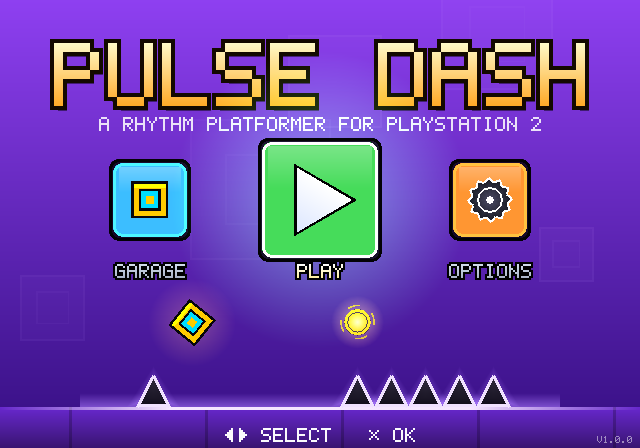
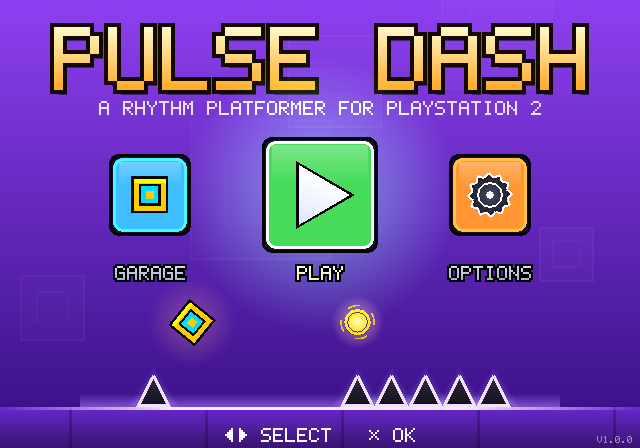
No freeze at the finish line; more room on the title menu
Crossing the finish line froze the game for a moment on PS2: the level-
complete handler saved to the memory card and waited for libmc (info,
mkdir, open, write, close, each a round trip to the IOP; a few hundred
milliseconds on a real card). Saves now go to a thread below the game
loop and the audio thread, which writes them in their idle time; the
game hands over a copy and carries on, and a newer save replaces one
still waiting. Menu screens that store on entry no longer hitch either.
In the Play! core the save lands on the card and the frame that asks
for it takes 0.5% of a frame.

Past the finish the camera also stopped dead within one tick; it now
glides to a stop from the speed it had.

Title menu: the selected PLAY button grew into the subtitle above and its
label below. The layout now leaves room for the title's bob and the
button's pulse (which is a little gentler: 1.04-1.12x instead of
1.06-1.18x), and the README screenshot is updated.

Claude-Session: https://claude.ai/code/session_01DzaERUnMqzsbWQkbshfCos

Changed region(s): [[0.0625, 0.0312, 0.9375, 0.6562], [0.6875, 0.3438, 0.8438, 0.6562], [0.1562, 0.3438, 0.3125, 0.6562]]

diff --git a/src/ps2/save_ps2.c b/src/ps2/save_ps2.c
@@ -2,6 +2,12 @@
  * Memory card saves via libmc: mc0:/PULSEDASH/ (falls back to mc1).
  * The folder gets an icon.sys + 3D icon so it shows up properly in the
  * PS2 browser.
+ *
+ * Writing takes a few hundred milliseconds on a real card, so saves are
+ * written by a thread below the game loop and the audio thread, in their
+ * idle time: the game hands over a copy and carries on (the level-complete
+ * save used to freeze the finish). Only that thread uses libmc after the
+ * save is read at boot.
  */
 #include <kernel.h>
 #include <stdio.h>
@@ -21,15 +27,64 @@
 #define ICON_SYS "/PULSEDASH/icon.sys"
 #define ICON_FILE "/PULSEDASH/pulse.ico"
 
+#define SAVE_THREAD_PRIORITY 0x60 /* below the audio thread (audio_ps2.c) */
+#define SAVE_STACK 0x4000
+
 static int s_mc_ok;
 static uint8_t s_io[4096] __attribute__((aligned(64)));
 static uint8_t s_icon[48 * 1024] __attribute__((aligned(64)));
+
+/* the newest save waiting to be written */
+static uint8_t s_pending[sizeof(s_io)];
+static int s_pending_size, s_have_pending;
+static int s_lock = -1, s_wake = -1;
+static u8 s_stack[SAVE_STACK] __attribute__((aligned(16)));
+
+static void write_save(const void *buf, int size);
+
+static void save_thread(void *arg)
+{
+    (void)arg;
+    static uint8_t buf[sizeof(s_io)];
+    for (;;) {
+        WaitSema(s_wake);
+        WaitSema(s_lock);
+        int size = s_pending_size;
+        memcpy(buf, s_pending, (size_t)size);
+        s_have_pending = 0;
+        SignalSema(s_lock);
+        write_save(buf, size);
+    }
+}
+
+static int make_sema(int count, int max)
+{
+    ee_sema_t sema;
+    memset(&sema, 0, sizeof(sema));
+    sema.init_count = count;
+    sema.max_count = max;
+    return CreateSema(&sema);
+}
 
 int save_ps2_init(int embedded)
 {
     if (embedded && irx_load_memcard() < 0) return -1;
     if (mcInit(embedded ? MC_TYPE_XMC : MC_TYPE_MC) < 0) {
         printf("pulsedash: mcInit failed\n");
+        return -1;
+    }
+    s_lock = make_sema(1, 1);
+    s_wake = make_sema(0, 1);
+    ee_thread_t th;
+    memset(&th, 0, sizeof(th));
+    th.func = (void *)save_thread;
+    th.stack = s_stack;
+    th.stack_size = SAVE_STACK;
+    th.gp_reg = &_gp;
+    th.initial_priority = SAVE_THREAD_PRIORITY;
+    int tid = s_lock >= 0 && s_wake >= 0 ? CreateThread(&th) : -1;
+    if (tid < 0 || StartThread(tid, NULL) < 0) {
+        printf("pulsedash: save thread failed\n");
         return -1;
     }
     s_mc_ok = 1;
@@ -132,18 +187,32 @@ static void write_icon_files(int port)
     if (n > 0) write_file(port, ICON_FILE, s_icon, n);
 }
 
-int plat_save_write(const void *buf, int size)
+/* On the save thread. */
+static void write_save(const void *buf, int size)
 {
-    if (!s_mc_ok || size > (int)sizeof(s_io)) return -1;
     for (int port = 0; port < 2; port++) {
         if (!card_ready(port)) continue;
         mcMkDir(port, 0, SAVE_DIR);
         int r = mc_wait();
         if (r == 0) write_icon_files(port); /* folder was just created */
         memcpy(s_io, buf, (size_t)size);
-        if (write_file(port, SAVE_FILE, s_io, size) == 0) return 0;
+        if (write_file(port, SAVE_FILE, s_io, size) == 0) return;
     }
-    return -1;
+    printf("pulsedash: saving failed\n");
+}
+
+/* Queue the save for the save thread; a newer one replaces one still waiting. */
+int plat_save_write(const void *buf, int size)
+{
+    if (!s_mc_ok || size > (int)sizeof(s_pending)) return -1;
+    WaitSema(s_lock);
+    memcpy(s_pending, buf, (size_t)size);
+    s_pending_size = size;
+    int wake = !s_have_pending;
+    s_have_pending = 1;
+    SignalSema(s_lock);
+    if (wake) SignalSema(s_wake);
+    return 0;
 }
 
 const char *plat_name(void) { return "PS2"; }

diff --git a/src/core/game.c b/src/core/game.c
@@ -235,7 +235,7 @@ static void title_tick(void)
 static void draw_button(float cx, float cy, float size, int selected, Color c, int kind)
 {
     Game *g = &g_game;
-    float s = size * (selected ? 1.0f + 0.06f * sinf(g->t * 6.0f) + 0.12f : 1.0f);
+    float s = size * (selected ? 1.08f + 0.04f * sinf(g->t * 6.0f) : 1.0f);
     if (selected) draw_glow(cx, cy, s * 1.3f, col_with_alpha(c, 0.5f));
     render_panel(cx - s * 0.5f - 4, cy - s * 0.5f - 4, cx + s * 0.5f + 4, cy + s * 0.5f + 4, RGBA(0, 0, 0, 200),
                  RGBA(0, 0, 0, 220));
@@ -266,22 +266,25 @@ static void title_render(void)
     float pulse = beat_pulse();
     demo_render(&g->demo, &pal);
 
+    /* Vertical layout, with room for the title's bob (-4..+7 px) and the
+     * selected button's pulse (up to 1.12x): title 26-105, subtitle to 125,
+     * buttons 135-255, labels 264-282; the demo run plays below. */
     float bob = sinf(g->t * 2.0f) * 4.0f + pulse * 3.0f;
-    font_draw_fancy(SCREEN_W / 2 + 4, 46 + bob + 5, 9.0f, RGBA(0, 0, 0, 120), RGBA(0, 0, 0, 120), RGBA(0, 0, 0, 0), 0.0f,
+    font_draw_fancy(SCREEN_W / 2 + 4, 30 + bob + 5, 9.0f, RGBA(0, 0, 0, 120), RGBA(0, 0, 0, 120), RGBA(0, 0, 0, 0), 0.0f,
                     ALIGN_CENTER, GAME_TITLE);
-    font_draw_fancy(SCREEN_W / 2, 46 + bob, 9.0f, RGB(255, 250, 200), RGB(255, 170, 40), RGB(20, 10, 0), 4.0f,
+    font_draw_fancy(SCREEN_W / 2, 30 + bob, 9.0f, RGB(255, 250, 200), RGB(255, 170, 40), RGB(20, 10, 0), 4.0f,
                     ALIGN_CENTER, GAME_TITLE);
-    font_draw(SCREEN_W / 2, 120 + bob, 2.0f, col_with_alpha(COL_WHITE, 0.85f), ALIGN_CENTER,
+    font_draw(SCREEN_W / 2, 104 + bob, 2.0f, col_with_alpha(COL_WHITE, 0.85f), ALIGN_CENTER,
               "A RHYTHM PLATFORMER FOR PLAYSTATION 2");
 
     static const Color cols[3] = {RGB(60, 190, 255), RGB(70, 220, 90), RGB(255, 150, 50)};
     static const char *labels[3] = {"GARAGE", "PLAY", "OPTIONS"};
     for (int i = 0; i < 3; i++) {
         float cx = SCREEN_W / 2 + (i - 1) * 170.0f;
-        float size = i == 1 ? 104.0f : 74.0f;
-        draw_button(cx, 200, size, g->menu_sel == i, cols[i], i);
+        float size = i == 1 ? 100.0f : 74.0f;
+        draw_button(cx, 195, size, g->menu_sel == i, cols[i], i);
         int sel = g->menu_sel == i;
-        font_draw_fancy(cx, 264, 2.0f, sel ? COL_WHITE : RGB(210, 220, 235), sel ? RGB(255, 240, 160) : RGB(170, 180, 200),
+        font_draw_fancy(cx, 266, 2.0f, sel ? COL_WHITE : RGB(210, 220, 235), sel ? RGB(255, 240, 160) : RGB(170, 180, 200),
                         RGB(0, 0, 0), 2.0f, ALIGN_CENTER, labels[i]);
     }
     font_draw(SCREEN_W / 2, SCREEN_H - 20, 2.0f, col_with_alpha(COL_WHITE, 0.7f + 0.3f * sinf(g->t * 4.0f)),

diff --git a/src/core/play.c b/src/core/play.c
@@ -215,8 +215,15 @@ static void add_checkpoint(PlayState *ps)
 static void update_camera(PlayState *ps, float dt)
 {
     const Player *p = &ps->p;
-    if (ps->phase != PH_COMPLETE) ps->cam_x = p->x - CAM_PLAYER_X;
-    else ps->cam_x = minf(p->x - CAM_PLAYER_X, ps->L->end_x - CAM_PLAYER_X);
+    if (ps->phase != PH_COMPLETE) {
+        ps->cam_x = p->x - CAM_PLAYER_X;
+    } else {
+        /* past the finish the camera glides to a stop from the speed it had
+         * (stopping dead in one tick looks like a hitch) */
+        const float k = 5.0f;
+        float stop = ps->L->end_x - CAM_PLAYER_X + p->speed / k;
+        ps->cam_x += (stop - ps->cam_x) * (1.0f - expf(-dt * k));
+    }
 
     float k;
     if (p->mode == MODE_CUBE) {

diff --git a/src/core/platform.h b/src/core/platform.h
@@ -6,7 +6,8 @@
 
 /* Read the save blob. Returns bytes read, or < 0 if there is no save. */
 int plat_save_read(void *buf, int size);
-/* Write the save blob. Returns 0 on success. */
+/* Write the save blob, possibly in the background (the PS2 writes the memory
+ * card from a thread of its own). Returns 0 if it was accepted. */
 int plat_save_write(const void *buf, int size);
 
 /* Short label of the platform shown in the options screen. */

diff --git a/CHANGELOG.md b/CHANGELOG.md
@@ -56,6 +56,10 @@ First release.
 
 ### Fixed
 
+- A short freeze when crossing the finish line on PS2: the game saved to
+  the memory card right then, and waited for it. Saves are now written in
+  the background, and the camera glides to a stop past the finish instead
+  of stopping dead.
 - Stuttering scrolling on PS2: frames are now flipped right at the vertical
   blank (the audio thread could delay them before), and drawn interpolated
   between game ticks, which also makes PAL (50 Hz) consoles scroll evenly.
